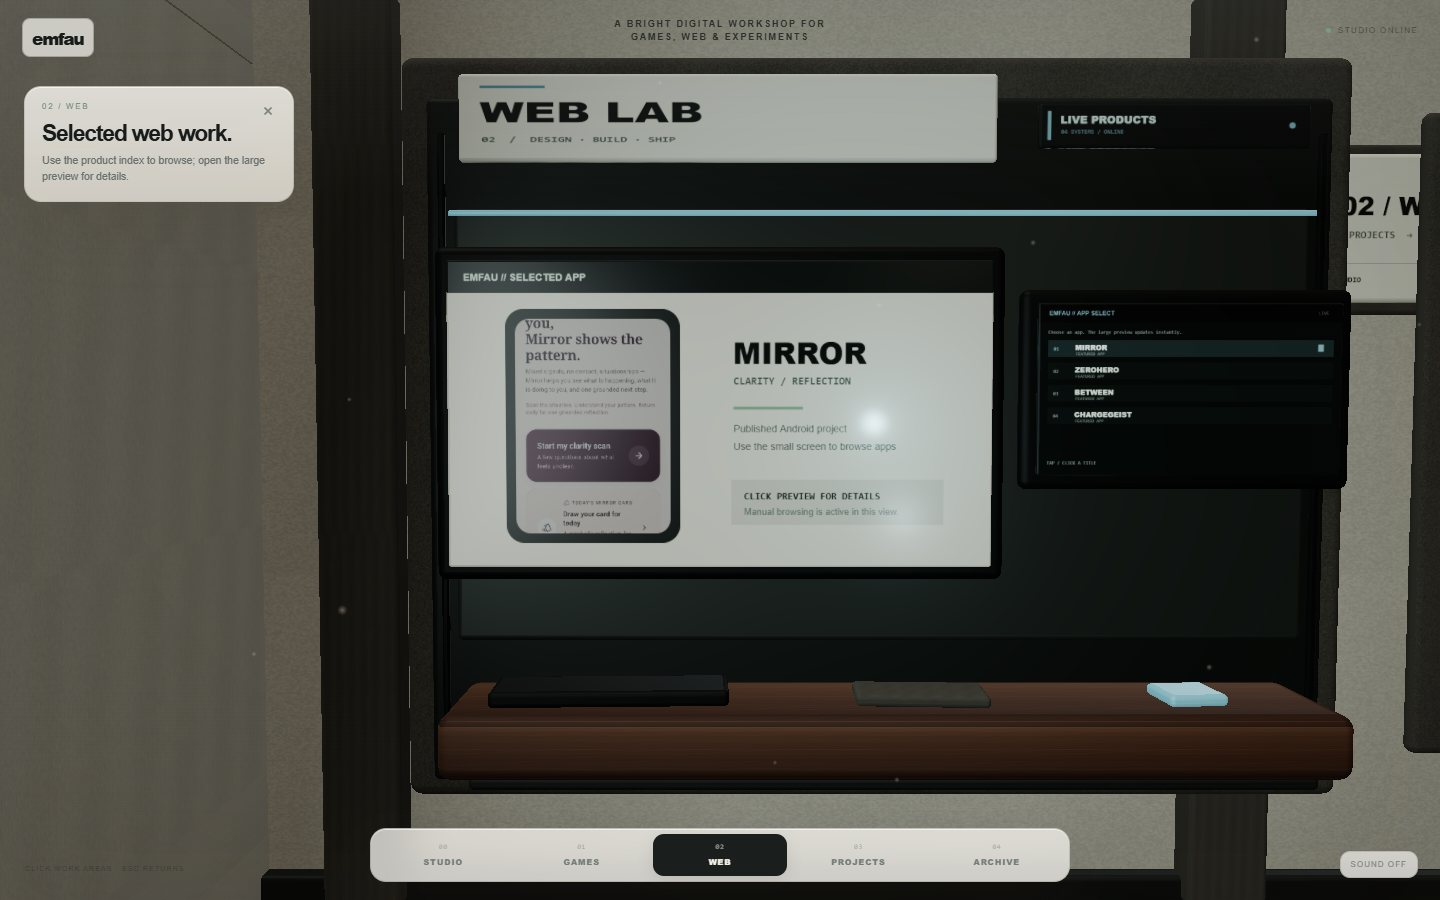
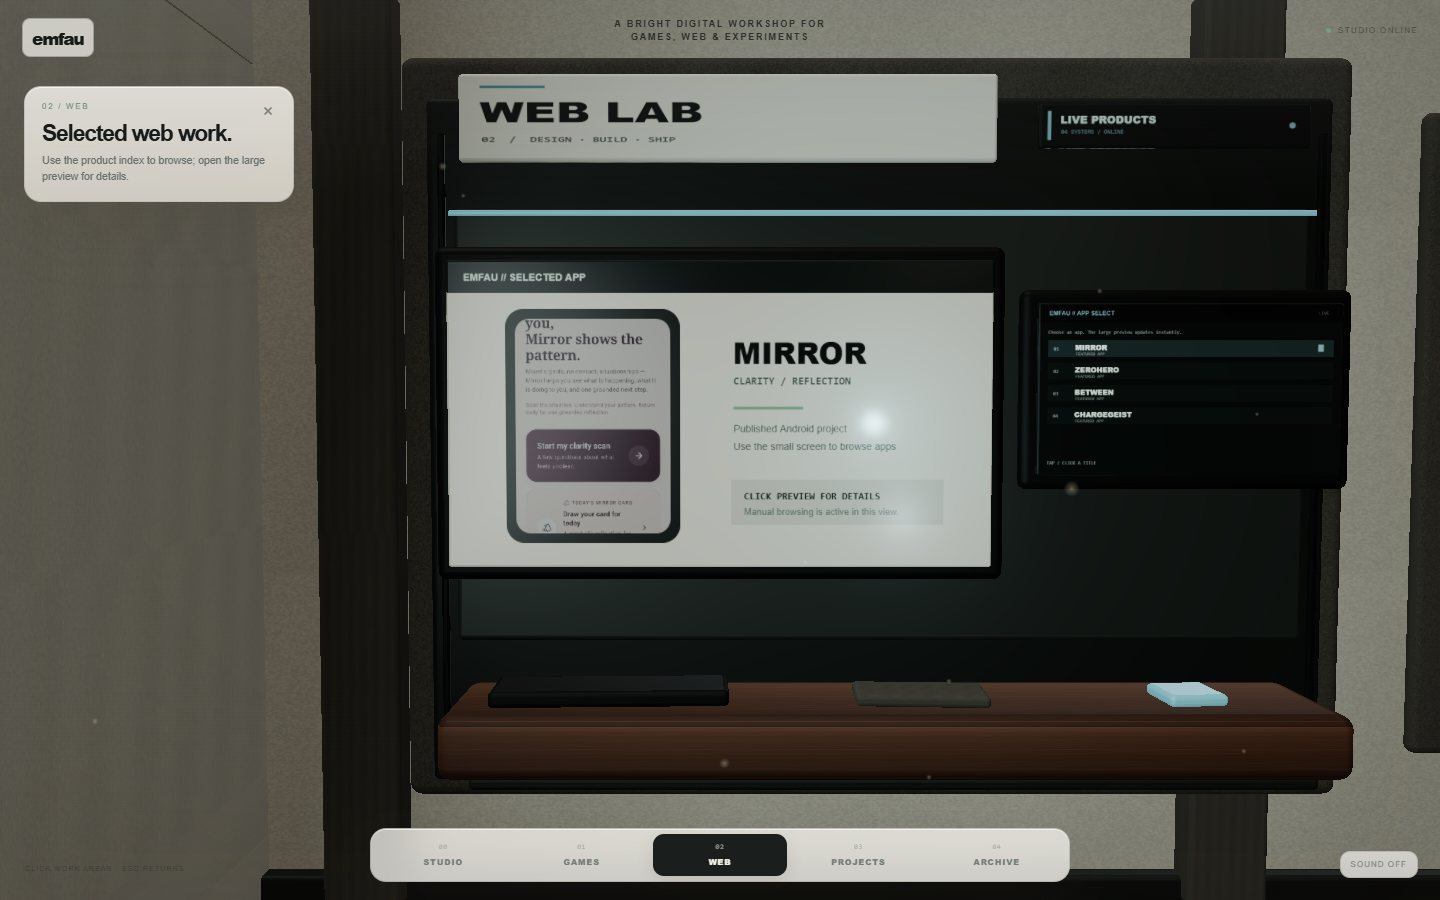
Remove obsolete Web Projects wayfinding

Changed region(s): [[0.9375, 0.1556, 1.0, 0.3733]]

diff --git a/src/scene/zones/entranceZone.ts b/src/scene/zones/entranceZone.ts
@@ -40,10 +40,6 @@ export function buildEntranceZone(materials: StudioMaterials, tools: SceneTools,
   addBox(leftSign, [1.86, .78, .055], [0, 3.68, 0], signMaterial(tools, 'archive', 'ARCHIVE  04', 'LOUNGE · RETIRED BUILDS  ←', '#b17757'), [0, 0, 0], .025)
   addBox(leftSign, [1.98, .9, .05], [0, 3.68, -.04], materials.concreteDark, [0, 0, 0], .035)
 
-  const rightSign = group('WorkWayfinding', [7.31, 0, -.15], [0, -Math.PI / 2, 0])
-  addBox(rightSign, [1.86, .78, .055], [0, 3.68, 0], signMaterial(tools, 'work', 'WEB 02 / WORK 03', 'APPS · ACTIVE PROJECTS  →', '#6f98a7'), [0, 0, 0], .025)
-  addBox(rightSign, [1.98, .9, .05], [0, 3.68, -.04], materials.concreteDark, [0, 0, 0], .035)
-
   // A compact entry beacon adds a human-scale welcome cue near the otherwise empty foreground.
   const beacon = group('EntranceBeacon', [-5.72, 0, 2.92], [0, .18, 0])
   addBox(beacon, [.72, 1.58, .42], [0, .79, 0], materials.concreteDark, [0, 0, 0], .055)
